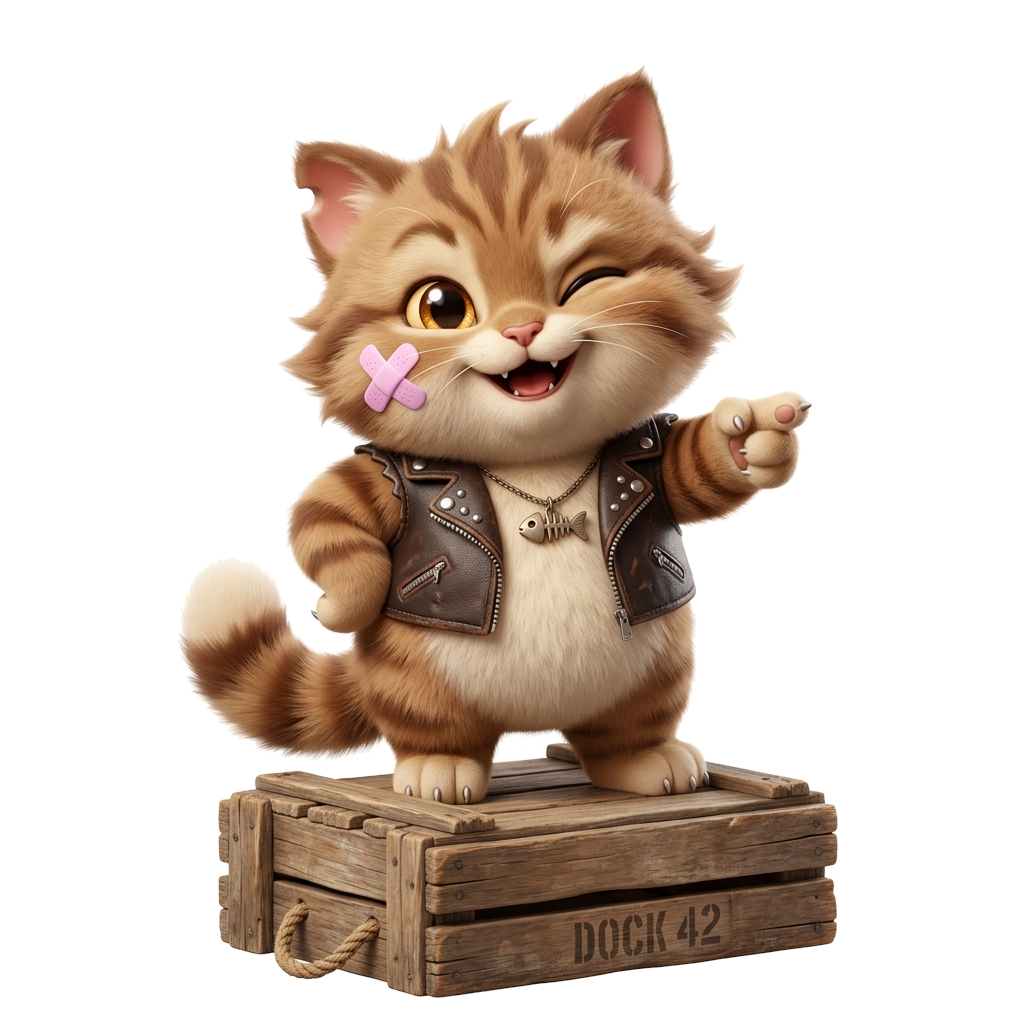
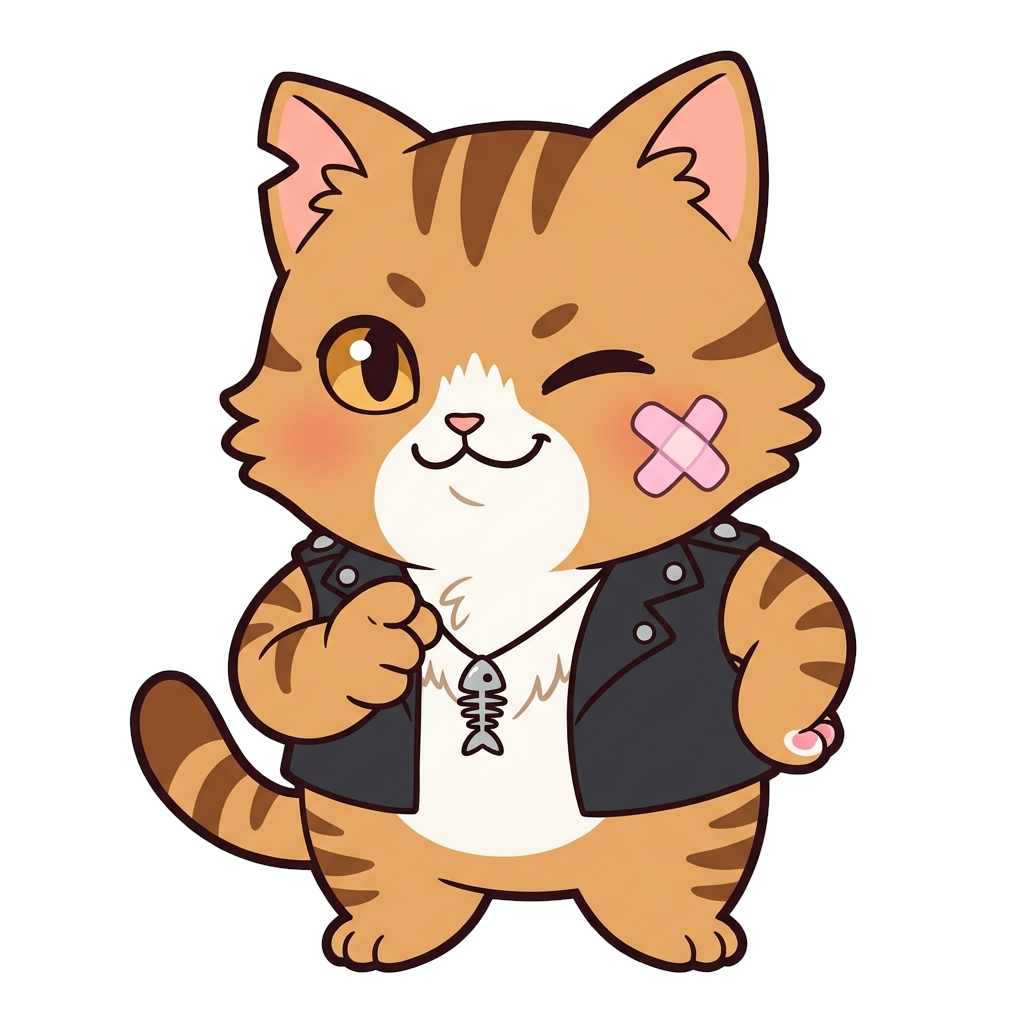
style(art): enforce strict 2D anime cartoon guidelines and update Bully Cat idle/smug

diff --git a/GEMINI.md b/GEMINI.md
@@ -10,7 +10,13 @@
 - **Version Traceability**: When shipping major visual or gameplay overhauls, keep version tags synchronized across `game/index.html`, `package.json`, Android `build.gradle`, and iOS `Info.plist`.
 
 ## 3. Visual Asset & Art Direction Rules
-- **Static UI Icons & Characters**: Fixed UI badges, clear stars, buttons, cutscenes, companions, and boss characters must use high-quality generated 3D kawaii raster illustrations (`assets/*.png`), not makeshift vector/SVG shapes.
+- **Static UI Icons & Characters (2D Anime Cartoon Style)**:
+  - **Strict 2D Cel Anime Art Style**: All character illustrations (bosses, companions, cutscene figures) must follow a **crisp 2D anime cartoon illustration style** with clean, thick dark outlines and soft 2D cel-shading.
+  - **NO 3D CGI / Realistic 3D Renders**: Strictly prohibit 3D rendering, CGI, claymation, ambient occlusion, realistic specular reflections, or photorealistic lighting. Do NOT use "3D" keywords in character prompts.
+  - **Strict Multi-Cut Consistency Anchors**:
+    * Absolute spatial anchoring: Always specify facial marks relative to the viewer (e.g. `permanently anchored on viewer's right cheek`, `ear notch strictly on viewer's left ear`) to prevent flipping/hallucination across expressions.
+    * Invariant wardrobe: Fasten exact clothing details (e.g., number of studs, vest cut, necklace pendant shape) identically across all action cuts.
+    * Minimal background clutter: Avoid introducing transient background clutter (random fish crates, changing labels) that morphs unnaturally between sprite frames.
 - **Dynamic 3D Tower Geometry & Effects**: Real-time deforming tower blocks (e.g., waffle cones, 5-flavor melting gelato drips, rolling volumetric fog) should use lightweight procedural Canvas 2D rendering for 0 KB overhead and 60 FPS performance.
 - **Strict Role Separation**: Never reuse player-collectible Companion Cat illustrations as Enemy Bosses, and never use cheap CSS hue-rotate color swaps in place of genuinely distinct character designs.
 - **Visual Economy**: Avoid over-saturating the screen with a single motif (e.g., repeating cat paw silhouettes on adjacent badges and cards).
